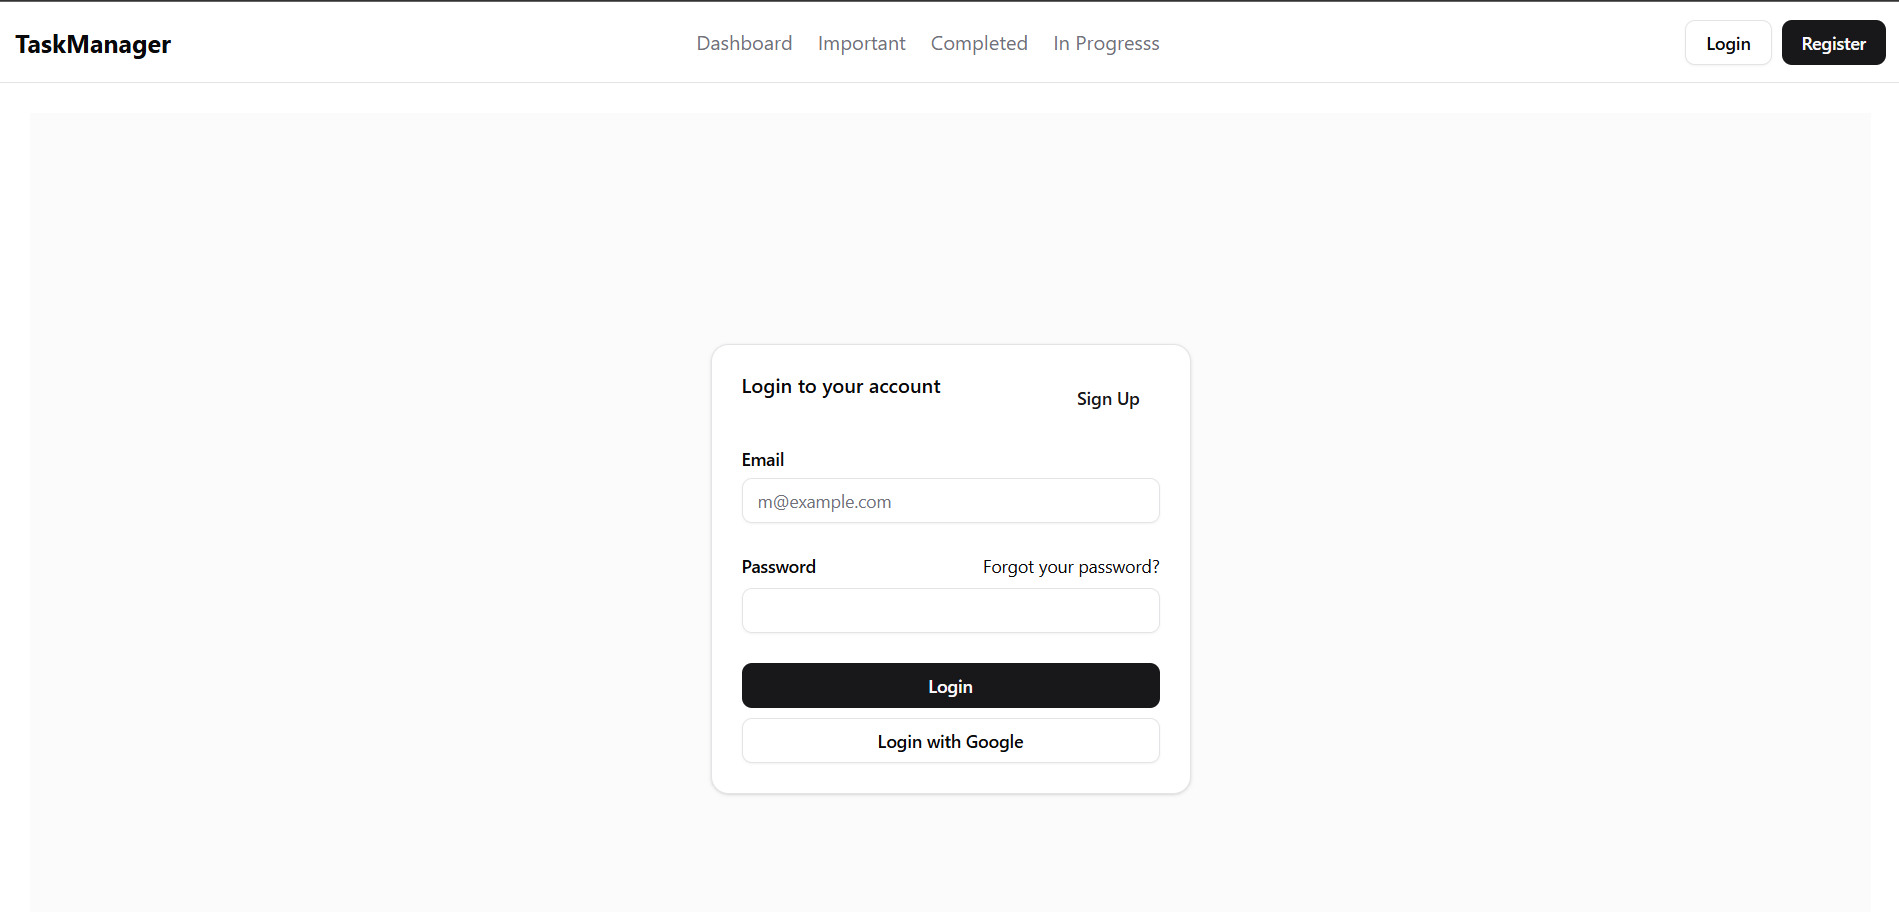
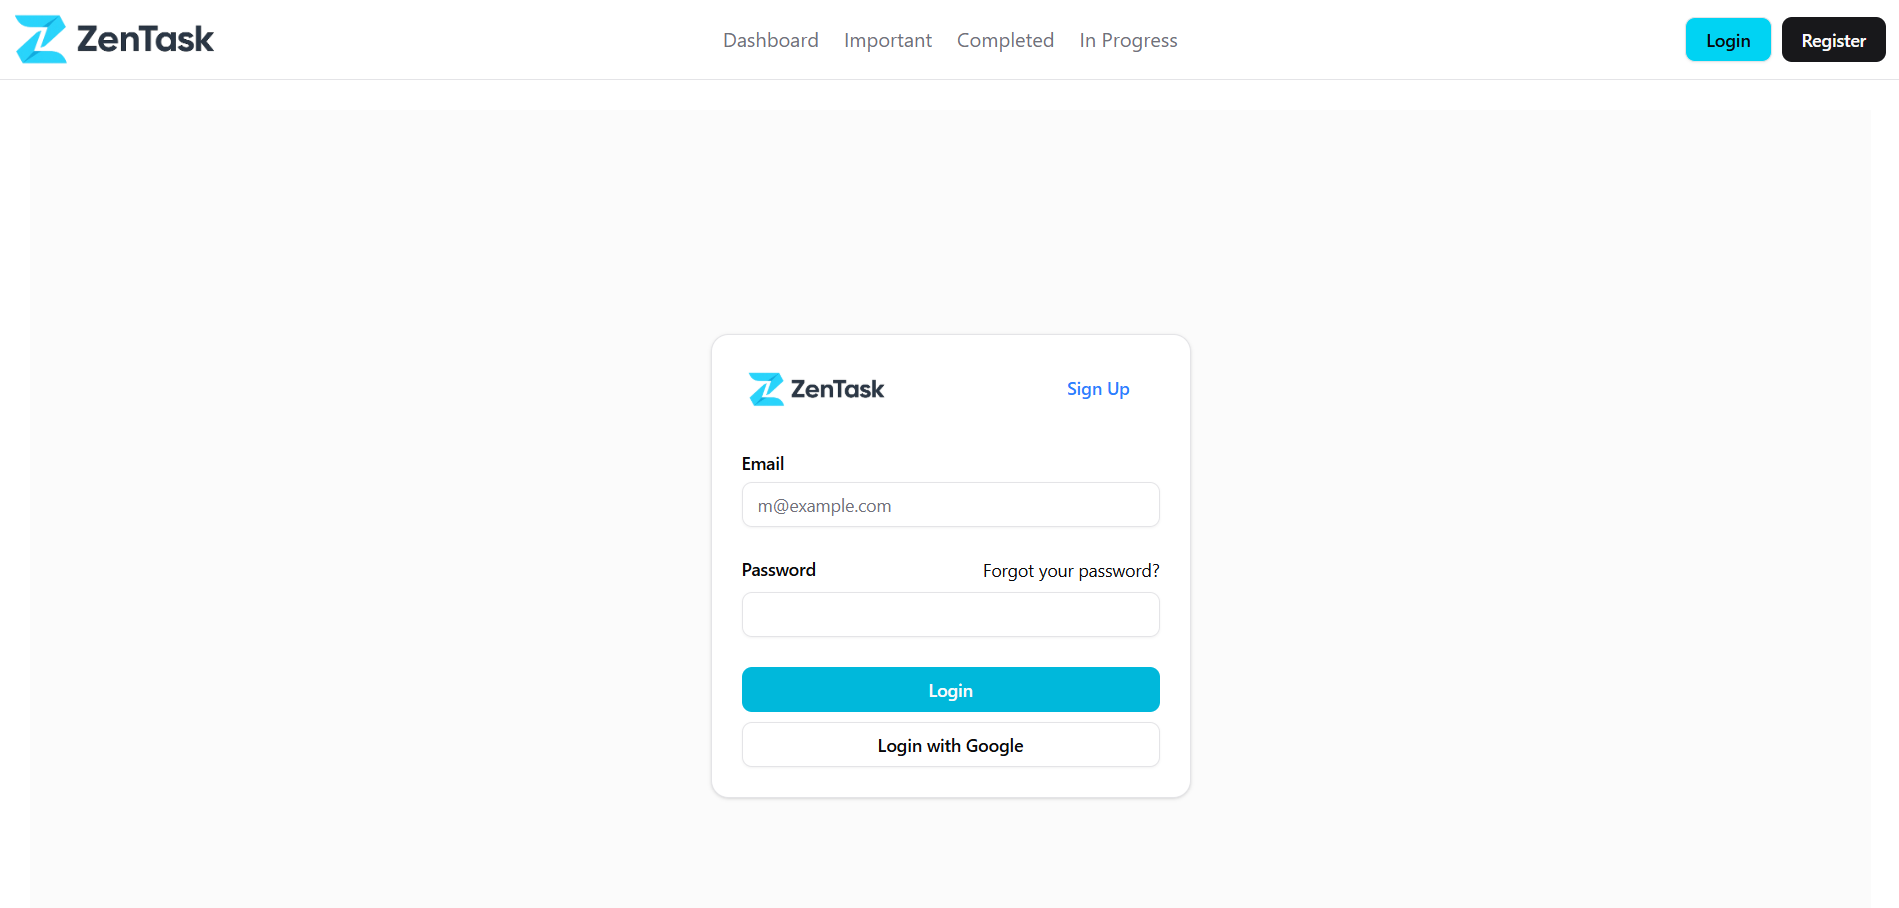
initial

diff --git a/src/components/Projects.jsx b/src/components/Projects.jsx
@@ -8,7 +8,7 @@ function Projects() {
       title: "Bookstore App",
       description:
         "A full-featured e-commerce platform built with MERN stack. Users can register/login, browse books by category, add favorites, and manage a personal wishlist. Integrated secure authentication, dynamic book listings, and responsive UI for mobile and desktop. Deployed on Vercel.",
-      img: "/bookstore-i.png", // put your project image in public folder
+      img: "/bookstore-i.png",
       live: "https://bookstore-sr.vercel.app",
       github: "https://github.com/Sahilrawat666/bookstore.git",
       tags: ["React.js", "MongoDB", "Express.js", "Node.js", "jwt", "Tailwind"],
@@ -16,8 +16,8 @@ function Projects() {
     {
       title: "Task Manager App",
       description:
-        "A full-stack MERN task manager app with user authentication, task creation, deletion, and filtering by status and importance. Built with React, TailwindCSS, Vite, Node.js, Express, and MongoDB.",
-      img: "/taskmanager-i.png", // Add a screenshot in your public folder
+        "Built a task management application with authentication and dynamic task tracking features. Implements full CRUD operations, allowing users to create, read, update, and delete tasks efficiently. Users can update task status (e.g., To Do, In Progress, Completed) and manage their workflow through an intuitive interface. Developed using MongoDB, Express, React, and Node.js with Tailwind CSS for styling.",
+      img: "/taskmanager-i.png",
       live: "https://taskmanager-sr.vercel.app", // Live demo link
       github: "https://github.com/Sahilrawat666/task_manager_app", // GitHub repo
       tags: [
@@ -39,16 +39,6 @@ function Projects() {
       github: "https://github.com/sahilrawat432/Blog-App",
       tags: ["React", "Express", "MongoDB", "JWT"],
       inProgress: true,
-    },
-
-    {
-      title: "Portfolio Website",
-      description:
-        "My personal portfolio website built with React, TailwindCSS, and Framer Motion animations. It showcases my projects, skills, and contact info in an interactive and visually appealing way.",
-      img: "/portfolio-i.png",
-      live: "https://sahil-sr.vercel.app",
-      github: "https://github.com/Sahilrawat666/Portfolio.git",
-      tags: ["React", "Tailwind", "Framer Motion"],
     },
   ];
 

diff --git a/src/components/About.jsx b/src/components/About.jsx
@@ -89,6 +89,8 @@ function About() {
                   MERN stack:
                 </p>
                 <ul className="list-disc list-inside mt-2 space-y-1">
+                  {/* bookstore application  */}
+
                   <li>
                     <span className="font-semibold">Bookstore App:</span> A
                     full-featured e-commerce platform built with MERN stack.
@@ -105,6 +107,18 @@ function About() {
                       Live Demo
                     </a>
                   </li>
+                  <li>
+                    {/* task manager */}
+                    <span className="font-semibold">Task Manager App:</span> A
+                    full-stack task management application built using the MERN
+                    stack with secure authentication and full CRUD
+                    functionality. Users can create, update, and delete tasks,
+                    track status (To Do, In Progress, Completed), and manage
+                    workflows through a clean and responsive interface. Focused
+                    on RESTful APIs and efficient state management.
+                  </li>
+
+                  {/* blog application */}
                   <li>
                     <span className="font-semibold">Blog App:</span> Currently
                     developing a full-stack blogging platform using the MERN

diff --git a/src/components/Hero.jsx b/src/components/Hero.jsx
@@ -120,6 +120,14 @@ function Hero() {
                 Bookstore
               </a>
               <a
+                href="https://taskmanager-sr.vercel.app"
+                target="_blank"
+                rel="noreferrer"
+                className="text-sm text-emerald-600 hover:underline transition-all duration-300"
+              >
+                Task Manager
+              </a>
+              <a
                 href="https://blog-application-sr.vercel.app"
                 target="_blank"
                 rel="noreferrer"
